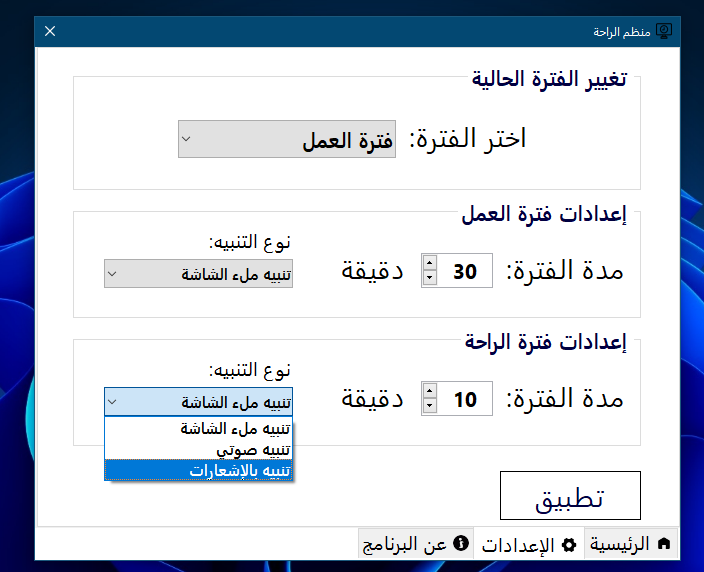
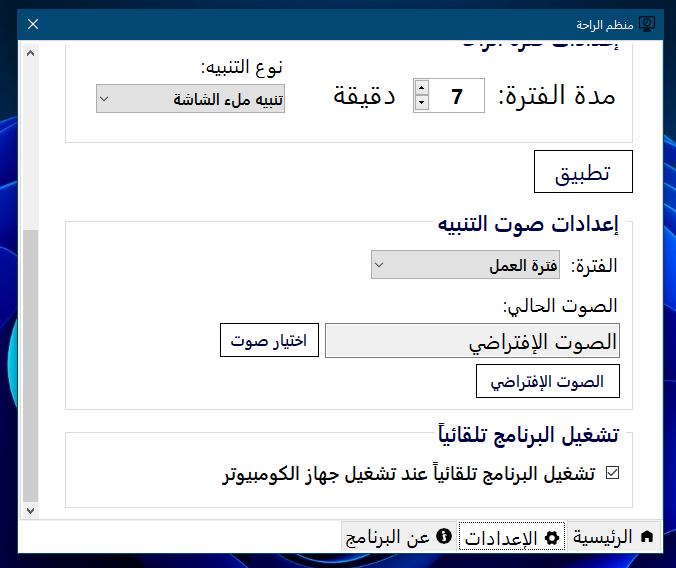
Update download links to point to the latest EasyRest release version 2.0.0

diff --git a/index.html b/index.html
@@ -36,7 +36,7 @@
         <h1>حافظ على تركيزك. خذ فترات راحة أفضل.</h1>
         <p class="hero-subtitle">EasyRest يذكرك تلقائياً عندما يحين وقت الراحة، مما يساعدك على الحفاظ على إنتاجيتك، وتقليل التعب، وبناء عادات عمل صحية.</p>
         <div class="hero-buttons">
-          <a href="https://github.com/maketmimi/EasyRest/releases/download/v1.0.0/EasyRest.exe" class="btn btn-primary">
+          <a href=https://github.com/maketmimi/EasyRest/releases/download/2.0.0/EasyRest.exe class="btn btn-primary">
             <svg class="btn-icon" viewBox="0 0 24 24" fill="none" stroke="currentColor" stroke-width="2" aria-hidden="true">
               <path d="M21 15v4a2 2 0 0 1-2 2H5a2 2 0 0 1-2-2v-4"></path>
               <polyline points="7 10 12 15 17 10"></polyline>
@@ -317,7 +317,7 @@
           <div class="download-info">
             <span class="download-version">الإصدار 1.0.0</span>
           </div>
-          <a href="https://github.com/maketmimi/EasyRest/releases/download/v1.0.0/EasyRest.exe" class="btn btn-download" aria-label="تحميل EasyRest لنظام Windows">
+          <a href=https://github.com/maketmimi/EasyRest/releases/download/2.0.0/EasyRest.exe class="btn btn-download" aria-label="تحميل EasyRest لنظام Windows">
             <svg class="btn-icon" viewBox="0 0 24 24" fill="currentColor" aria-hidden="true">
               <path d="M2 3.5L10.5 2v8.5H2V3.5zm10.5-1.8L22 0v10.5H12.5V1.7zM2 12h8.5v9L2 19.5V12zm10.5 0H22v10.5l-9.5-1.8V12z"/>
             </svg>
